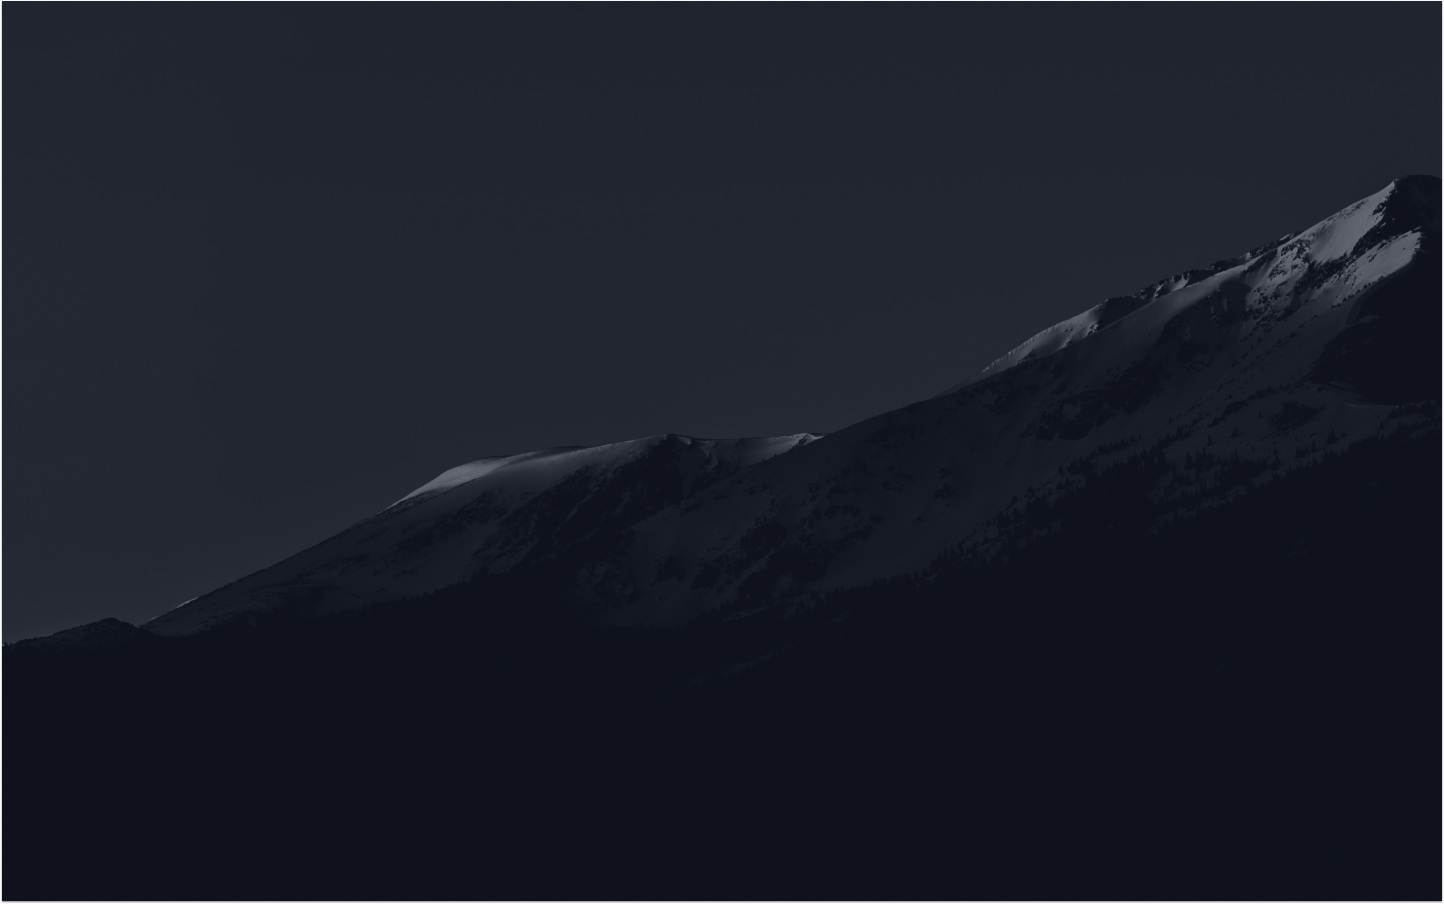
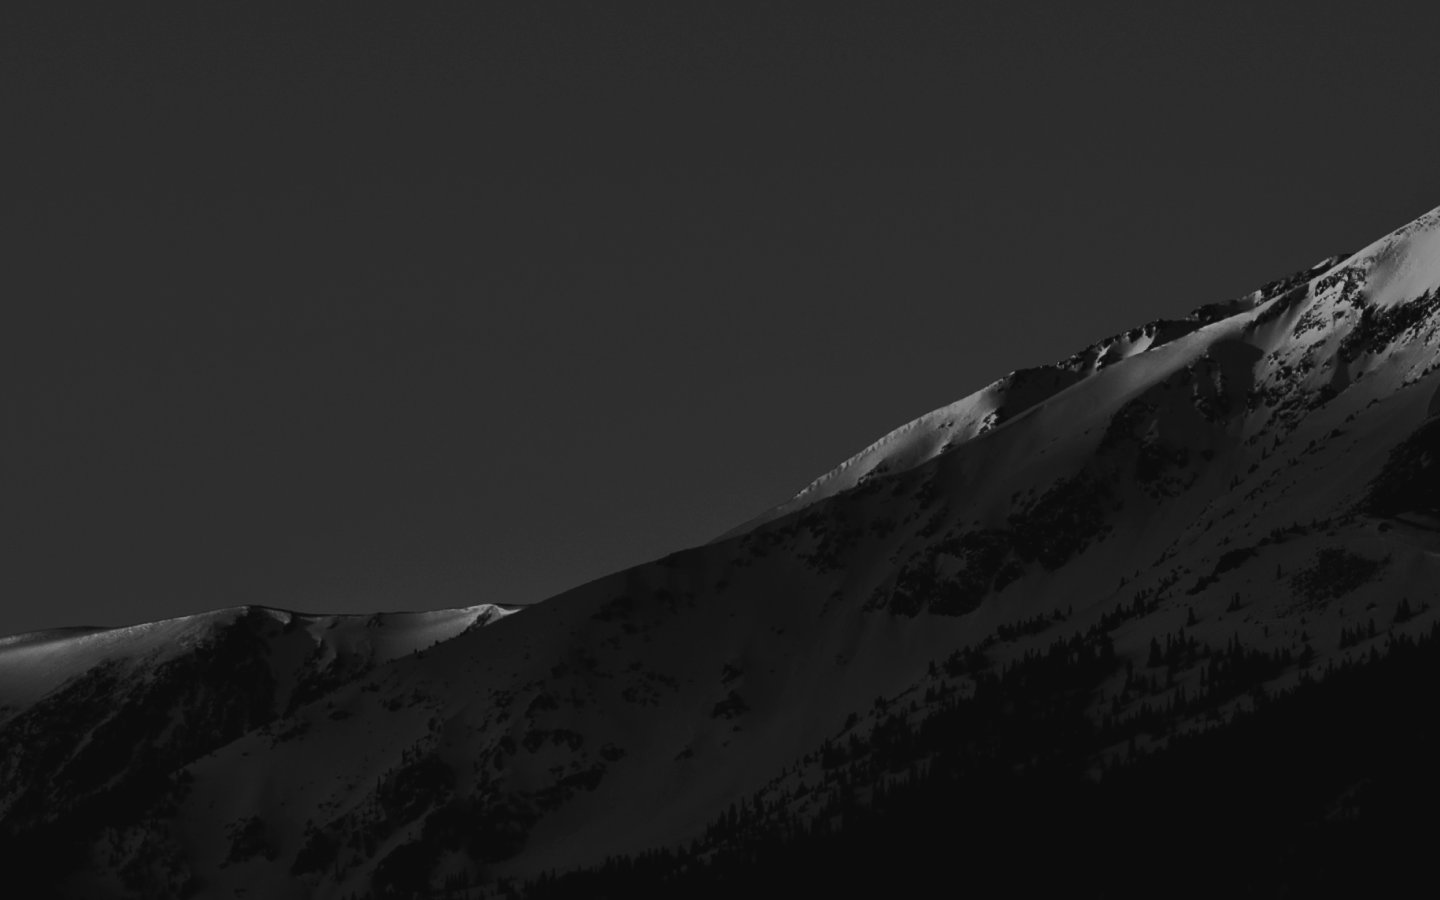
Update mission image and twitter link

Changed region(s): [[0.0, 0.1867, 1.0, 0.7778], [0.0, 0.9956, 1.0, 1.0]]

diff --git a/src/components/Contact/Contact.js b/src/components/Contact/Contact.js
@@ -35,7 +35,7 @@ function Contact() {
         </Container>
       </Edge>
 
-      <Container>
+      <Container className="Contacts-section">
         <div className="Contacts">
           <div className="Contact-item">
             <a className="Contact-item-head" href="mailto:hsdao@protonmail.ch">
@@ -47,7 +47,7 @@ function Contact() {
             </div>
           </div>
           <div className="Contact-item">
-            <a className="Contact-item-head" href="https://twitter.com/hs_dao" target="_blank" rel="noopener noreferrer">
+            <a className="Contact-item-head" href="https://twitter.com/blocksdecoded" target="_blank" rel="noopener noreferrer">
               <img src={Twitter} alt="" />
               <div className="Contact-item-title">on Twitter</div>
             </a>

diff --git a/src/components/Contact/Contact.scss b/src/components/Contact/Contact.scss
@@ -4,27 +4,13 @@
   display: flex;
   align-items: center;
   flex-direction: column;
-  justify-content: space-between;
 }
 
 .Contacts-section {
-  padding-bottom: 45px;
-
-  @include sm {
-    padding-bottom: 72px;
-  }
-}
-
-.Contacts-head {
-  color: darken($grey, 0.5%);
-  font-size: 18px;
-  line-height: 23px;
-  font-weight: 500;
-  padding-bottom: 40px;
-
-  @include sm {
-    padding-bottom: 36px;
-  }
+  display: flex;
+  justify-content: center;
+  align-items: center;
+  flex: 1;
 }
 
 .Contacts {

diff --git a/src/components/Card/Card.scss b/src/components/Card/Card.scss
@@ -1,6 +1,7 @@
 @import "../../scss/utils";
 
 .Card {
+  border-radius: 16px;
   padding: 32px;
   display: flex;
   flex-direction: column;
@@ -43,6 +44,10 @@
     font-size: 14px;
     line-height: 18px;
   }
+}
+
+.Card-dark {
+  background: $black;
 }
 
 .Card-info--grey {

diff --git a/src/components/Card/CardCode.scss b/src/components/Card/CardCode.scss
@@ -1,8 +1,6 @@
 @import "../../scss/utils";
 
 .CardCode {
-  background: $dark;
-  border-radius: 16px;
   margin: 0 12px;
   display: flex;
 }

diff --git a/src/index.scss b/src/index.scss
@@ -10,5 +10,5 @@ body {
   -moz-osx-font-smoothing: grayscale;
   margin: 0;
   padding: 0;
-  background: #0F1014;
+  background: $darkest;
 }
